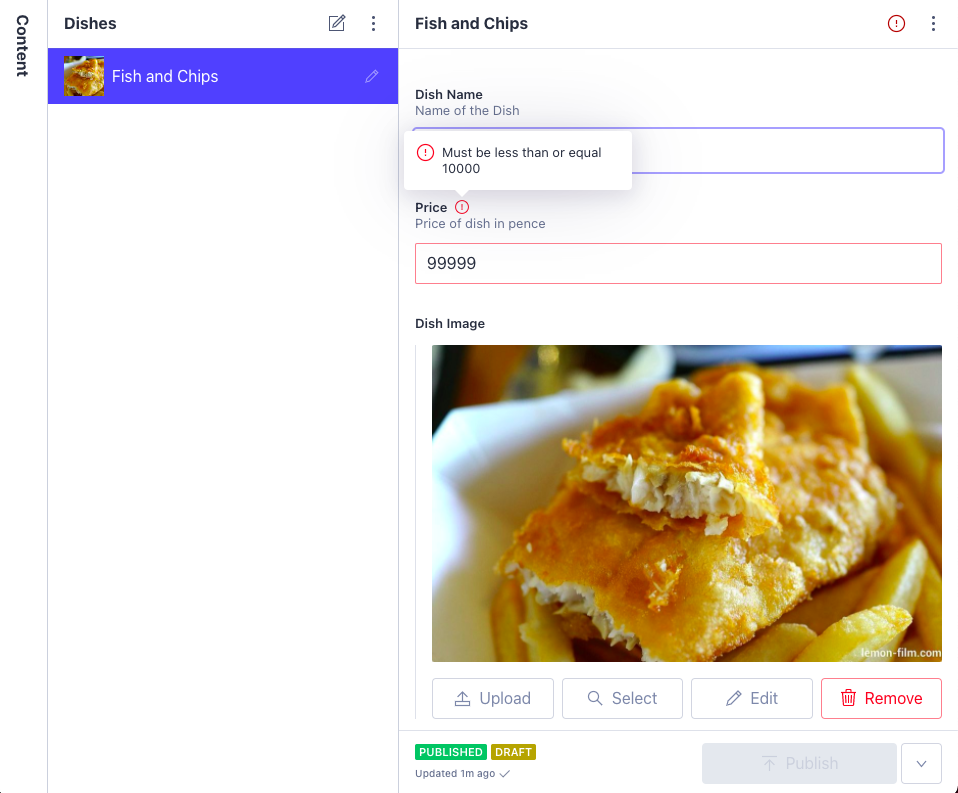
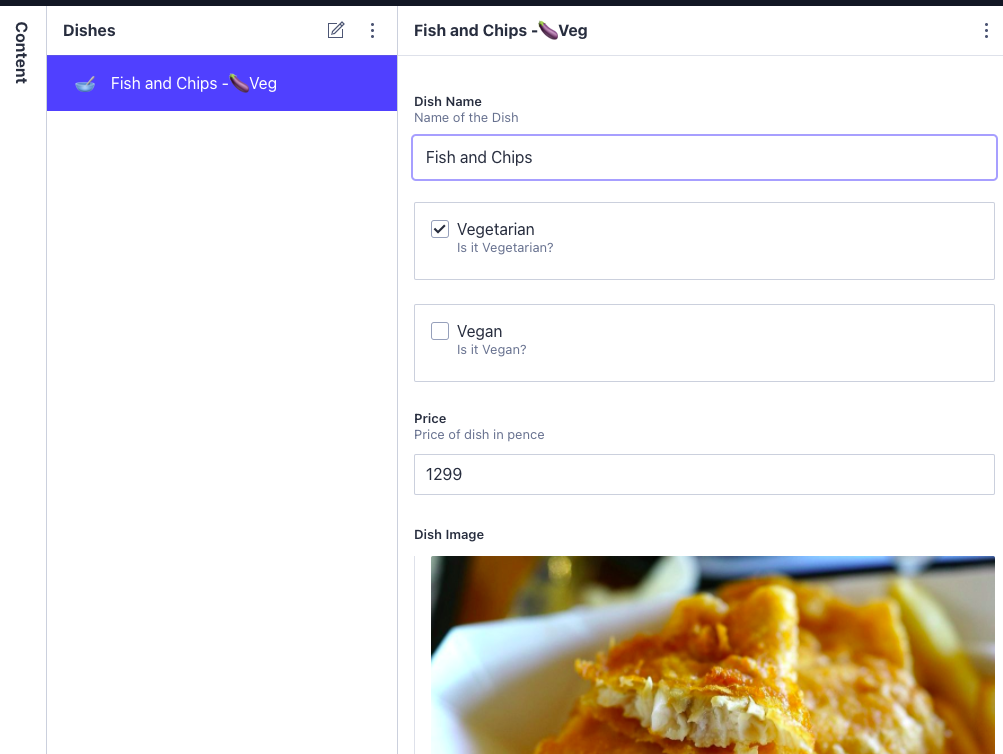
add link to Gatsby info

diff --git a/60 - Gatsby 1.md b/60 - Gatsby 1.md
@@ -302,9 +302,9 @@ It looks a bit dull though, so lets dicuss CSS with Gatsby in the next post!
 
 # Learning Gatsby - CSS in Gatsby with Styled Components
 
-This is part 3 of my Gatsby series start XXXXX for it to make more sense!
+This is part 3 of my Gatsby series start XXXXX for it to make more sense! This is all about getting our plain Gatsby pages looking a little nicer using modern approaches as we go. 
 
-First of all, if you just want to create a CSS file in your layouts.js and link to it, you sure can. There is nothing stopping you in Gatsby. But like with alot of Gatsby, there is a better way that allows Gatsby to do things smarter. For Gatsby to do that, it needs to be made aware of the CSS by importing it.
+First of all, if you just want to create a CSS file in your layouts.js and link to it, you sure can. There is nothing stopping you in Gatsby. But like with alot of Gatsby, there is a better way that allows Gatsby to do things smarter. For Gatsby to do that, it needs to be made aware of the CSS by importing it in specially.
 
 There is lots of ways to do this:
 
@@ -588,6 +588,8 @@ Of course it isn't all that interesting just storing the names of dishes, so onc
 Well the possibilities are limitless at this point. The Sanity docs are really good for figuring out how to build upon it but here is what I did:
 
 ```js
+import { check } from 'prettier';
+
 export default {
   name: 'dish',
   title: 'Dishes',
@@ -599,6 +601,24 @@ export default {
       title: 'Dish Name',
       type: 'string',
       description: 'Name of the Dish',
+    },
+    {
+      name: 'vegetarian',
+      title: 'Vegetarian',
+      type: 'boolean',
+      description: 'Is it Vegetarian?',
+      options: {
+        layout: 'checkbox',
+      },
+    },
+    {
+      name: 'vegan',
+      title: 'Vegan',
+      type: 'boolean',
+      description: 'Is it Vegan?',
+      options: {
+        layout: 'checkbox',
+      },
     },
     {
       name: 'price',
@@ -626,7 +646,20 @@ export default {
       },
     },
   ],
+  preview: {
+    select: {
+      name: 'name',
+      vegetarian: 'vegetarian',
+      vegan: 'vegan',
+    },
+    prepare: (fields) => ({
+      title: `${fields.name} ${
+        fields.vegan ? '- 🌱  Ve' : fields.vegetarian ? '-🍆 Veg' : '' //Nesting Ternaries is a naughty thing to do btw.
+      }`,
+    }),
+  },
 };
+
 ```
 
 Which results in:
@@ -635,6 +668,53 @@ Which results in:
 ![Fish and Chips](https://github.com/neosaurrrus/blog-entries/blob/master/pics/60/2.png?raw=true)
 
 
-Starting to look tasty! But lets start getting clever and look at some related data.
+Starting to look tasty! Note that we:
 
+- Added Vegan and Vegetarian Options (and somehow I decided Fish and Chips was vegetarian)
+- Added a preview property that lets us get some of the info without having to go into it. 
+
+But lets start getting even more clever and look at some related data.
+
+
+## Relational Data with a Second Content Type
+
+Ok cool, we have some dishes in our restaurant but we don't want our customers with special dietary requirements to be worried about what we are serving up so we want capture data around use of dairy, nuts, gluten. That sort of thing.
+
+ Multiple dishes might have dairy products in and maybe later we could filter out dairy products from the menu. To do this and save effort in the long run. it needs to exist as a seperate content type rather than just be a piece of info buried within each dish.
+
+A dish can fit many intolerances, i.e it could have Gluten and Shellfish. So we call this a one to many relationship as ONE dish may have MANY ingredients that we care about.
+
+Ok so first we need a new schema, called `intolerance.js` and we want to keep it fairly simple at first: 
+
+```js
+
+```
+
+Don't forget to add to the schema.js file as before:
+
+`types: schemaTypes.concat([dish, intolerence]),`
+
+
+### Linking it up
+
+Now that we have done that we need to link dishes to thier intolerences. This requires us to make an addition to the pizza shema:
+
+```js
+  {
+      name: 'Intolerences',
+      title: 'Contains',
+      type: 'array',
+      of: [{ type: 'reference', to: [{ type: 'intolerance' }] }],
+    },
+```
+
+So what are we doing here? We are adding an array to our dish schema, and then we are saying that array will contain *references* to our intolerences. This results in the following:
+
+![Fish and Chips](https://github.com/neosaurrrus/blog-entries/blob/master/pics/60/3.png?raw=true)
+
+
+Its  bit fiddly in the UI but allows us to link our previously created intolerences to our item. This isn't the most complex data ever for the sake of a short blog post but its easy to see how this can be developed.
+
+
+## Customising our Inputs
 
